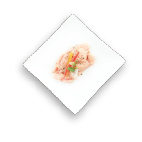
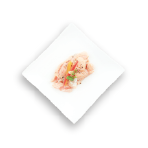
v21

diff --git a/goodTaste.html b/goodTaste.html
@@ -195,7 +195,7 @@
               <div class='col-md-6 col-sm-4 col-xs-6'>
                 <div class='itembeauty'>
                   <div class='img'>
-                    <img src='img/goodTaste/樸實-01.png' width='60%'>
+                    <img src='img/goodTaste/樸實-01.png' width='58%'>
                   </div>
                   <a class='title' href='goodTasteDetail.html'>九 層 塔 煎 蛋</a>
                   <hr width='50%'>
@@ -212,7 +212,7 @@
               <div class='col-md-6 col-sm-4 col-xs-6'>
                 <div class='itembeauty'>
                   <div class='img'>
-                    <img src='img/goodTaste/樸實-02.png' width='60%'>
+                    <img src='img/goodTaste/樸實-03.png' width='60%'>
                   </div>
                   <a class='title' href='goodTasteDetail2.html'>甜 椒 花 椰 菜</a>
                   <hr width='50%'>
@@ -229,7 +229,7 @@
               <div class='col-md-6 col-sm-4 col-xs-6'>
                 <div class='itembeauty'>
                   <div class='img'>
-                    <img src='img/goodTaste/樸實-03.png' width='60%'>
+                    <img src='img/goodTaste/樸實-02.png' width='60%'>
                   </div>
                   <a class='title' href='goodTasteDetail3.html'>香 煎 鮭 魚 排</a>
                   <hr width='50%'>

diff --git a/main.html b/main.html
@@ -137,7 +137,7 @@
           <div class='carousel slide' data-ride='carousel' id='indexBanner'>
             <div class='carousel-inner' role='listbox'>
               <div class='item active'>
-                <img src='img/首-01.png'>
+                <img src='img/首-05.png'>
               </div>
               <div class='item'>
                 <img src='img/首-02.png'>
@@ -149,7 +149,7 @@
                 <img src='img/首-04.png'>
               </div>
               <div class='item'>
-                <img src='img/首-05.png'>
+                <img src='img/首-01.png'>
               </div>
             </div>
             <div class='text-center'>
